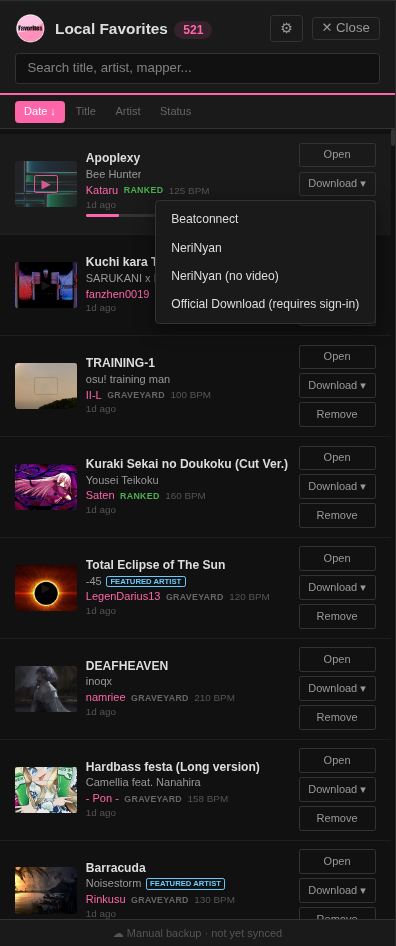
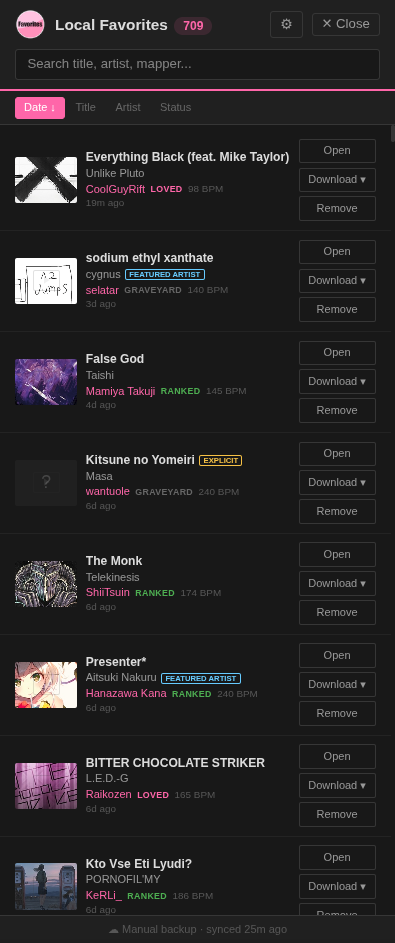
Refresh screenshots: new panel, settings, download menu, heart states, update prompt; update README references

diff --git a/README.md b/README.md
@@ -40,13 +40,9 @@ Then load the folder in `chrome://extensions/`.
 
 ## Demo
 
-| Beatmap listing | Side panel open |
+| Side panel | Inline preview & download mirrors |
 | :---: | :---: |
-| ![Beatmap listing](screenshots/beatmapsearch.png) | ![Side panel open](screenshots/beatmapspage.png) |
-
-| Inline preview & download mirrors |
-| :---: | 
-| ![Music previews and download options](screenshots/musicpreviewsanddownloadoptions.png) |
+| ![Side panel](screenshots/sidepanel.png) | ![Music previews and download options](screenshots/music_preview_and_downloads.png) |
 
 ## Side Panel
 
@@ -54,7 +50,16 @@ Search, sort, preview, and download every favorite without leaving the panel —
 
 | Full panel | Settings panel |
 | :---: | :---: |
-| ![Side panel detail](screenshots/sidepanel.png) | ![Settings panel](screenshots/settingspanel.png) |
+| ![Side panel detail](screenshots/sidepanel.png) | ![Settings panel](<screenshots/settings_full(33%25page_size).png>) |
+
+<details>
+<summary>More settings screenshots</summary>
+
+| Settings (1) | Settings (2) | Settings (3) |
+| :---: | :---: | :---: |
+| ![](screenshots/settings_1.png) | ![](screenshots/settings_2.png) | ![](screenshots/settings_3.png) |
+
+</details>
 
 ### Settings
 
@@ -77,7 +82,7 @@ Everything below lives behind the ⚙ **Settings** button in the side panel head
 
 | Normally | On a favorited beatmap |
 | :---: | :---: |
-| ![onnotfavoritepage](screenshots/onnotfavoritepage.png) | ![onfavoritedpage](screenshots/onfavoritedpage.png) |
+| ![Floating heart](screenshots/button.png) | ![Floating heart (favorited)](screenshots/button_active.png) |
 
 ## How it works
 
@@ -89,7 +94,7 @@ Everything below lives behind the ⚙ **Settings** button in the side panel head
 - Periodically checks GitHub for a newer script version and shows an in-panel prompt when one's available
 - Its accent(glow) and colour of the heart itself can be changed by accent and heart border/fill color
 
-![Update prompt](screenshots/updateprompt.png)
+![Update prompt](screenshots/autoupdate_prompt.png)
 
 *Example screenshot — the version number and exact wording will reflect whatever the actual latest release is, not necessarily what's shown here.*
 
